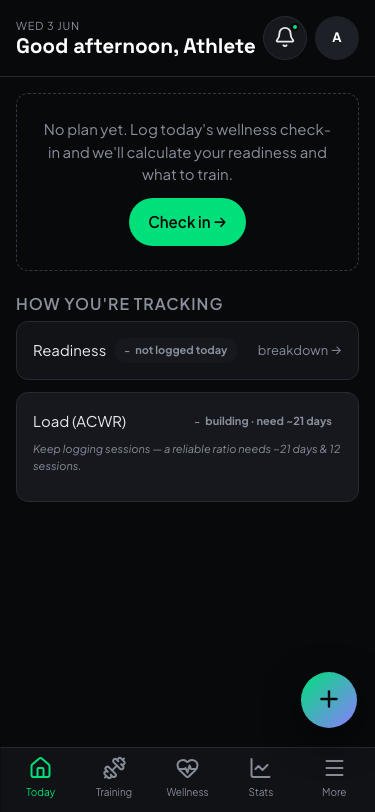
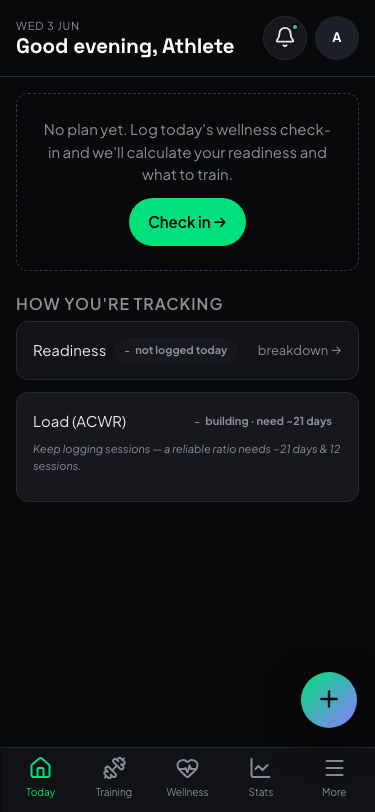
Write-path audit: fix silent optimistic-write failures (no rollback/feedback)
Adversarial write-path audit (every POST/PUT mutation). All 21 target tables verified
present in the live schema; both critical RPCs (set_event_availability,
upsert_wellness_checkin) exist; no handler routes-forward on error except onboarding
(already fixed). Found + fixed the 'appears to succeed but never persisted' class —
optimistic UI flips with no rollback and no error surfaced:

- Settings notification (×4) + privacy/consent (×3) toggles: flipped optimistically,
  save error only logged → UI showed a consent/notification state the server never
  accepted. Now reconcile from the server (snap the toggle back to truth) + show an
  inline error. P1 (consent integrity).
- Hydration (wellness + gameday): optimistic total, no rollback → showed water that
  wasn't recorded. Now rolls back on error. P2.
- Notifications mark-all: cleared the list optimistically, no restore → looked cleared
  while still unread server-side. Now restores the list on error. P2.

How each prevents recurrence: the optimistic state is now always reconciled to (or
reverted toward) the server result on failure, so the UI can't display an
un-persisted write.

ng build green, tsc 0 errors, smoke green.

Changed region(s): [[0.2053, 0.0308, 0.6747, 0.0924]]

diff --git a/angular/src/app/settings/settings.component.ts b/angular/src/app/settings/settings.component.ts
@@ -213,8 +213,17 @@ export class SettingsComponent {
   readonly acwrAlerts = signal(true);
   readonly coachMessages = signal(true);
 
+  // Toggle-save failures must not leave the UI showing a consent/notification state
+  // the server never accepted — reconcile from the server + tell the user.
+  readonly prefsMsg = signal<string | null>(null);
+  private reconcilePrefs(): void {
+    this.prefsMsg.set("Couldn't save — reverted to your saved setting.");
+    void this.loadPrefs(); // re-pull server truth so the toggle snaps back
+  }
+
   saveNotifications(): void {
     if (!this.prefsLoaded()) return; // never write before real state has loaded
+    this.prefsMsg.set(null);
     // Endpoint expects { preferences: { <type>: { muted, pushEnabled, inAppEnabled } } }
     // with backend notification types. A toggle ON = delivered, OFF = muted.
     const cfg = (on: boolean) => ({ muted: !on, pushEnabled: on, inAppEnabled: on });
@@ -227,7 +236,12 @@ export class SettingsComponent {
           team: cfg(this.coachMessages()),
         },
       })
-      .subscribe({ error: (e) => this.logger.error("notif_prefs_save_failed", e) });
+      .subscribe({
+        error: (e) => {
+          this.logger.error("notif_prefs_save_failed", e);
+          this.reconcilePrefs();
+        },
+      });
   }
 
   // privacy / consent
@@ -237,6 +251,7 @@ export class SettingsComponent {
 
   savePrivacy(): void {
     if (!this.prefsLoaded()) return; // never write fabricated consent before load
+    this.prefsMsg.set(null);
     // Endpoint expects the settings wrapped under a `settings` key.
     this.api
       .put("/api/privacy-settings", {
@@ -246,6 +261,11 @@ export class SettingsComponent {
           healthSharingDefault: this.shareHealth(),
         },
       })
-      .subscribe({ error: (e) => this.logger.error("privacy_save_failed", e) });
+      .subscribe({
+        error: (e) => {
+          this.logger.error("privacy_save_failed", e);
+          this.reconcilePrefs();
+        },
+      });
   }
 }

diff --git a/angular/src/app/wellness/wellness.component.ts b/angular/src/app/wellness/wellness.component.ts
@@ -135,7 +135,14 @@ export class WellnessComponent {
     this.hydrationMl.update((v) => v + ml);
     this.api
       .post("/api/hydration/log", { amount: ml })
-      .subscribe({ error: (err) => this.logger.error("hydration_log_failed", err) });
+      .subscribe({
+        // Roll the optimistic total back if the log didn't persist, so the UI
+        // never shows water that isn't actually recorded.
+        error: (err) => {
+          this.hydrationMl.update((v) => v - ml);
+          this.logger.error("hydration_log_failed", err);
+        },
+      });
   }
   readonly hydrationL = computed(() => (this.hydrationMl() / 1000).toFixed(1));
 }

diff --git a/angular/src/app/gameday/gameday.component.ts b/angular/src/app/gameday/gameday.component.ts
@@ -82,6 +82,12 @@ export class GamedayComponent {
     this.hydrationMl.update((v) => v + ml);
     this.api
       .post("/api/hydration/log", { amount: ml })
-      .subscribe({ error: (e) => this.logger.error("hydration_log_failed", e) });
+      .subscribe({
+        // Roll back the optimistic total if the log didn't persist.
+        error: (e) => {
+          this.hydrationMl.update((v) => v - ml);
+          this.logger.error("hydration_log_failed", e);
+        },
+      });
   }
 }

diff --git a/angular/src/app/notifications/notifications.component.ts b/angular/src/app/notifications/notifications.component.ts
@@ -52,9 +52,15 @@ export class NotificationsComponent {
   }
 
   markAllRead(): void {
+    const prev = this.items();
     this.items.set([]);
     this.api.post("/api/notifications", { notificationId: "all" }).subscribe({
-      error: (e) => this.logger.error("notifications_mark_read_failed", e),
+      // Restore the list if the server didn't clear it, so it doesn't look
+      // cleared while still unread (and reappear on the next reload).
+      error: (e) => {
+        this.items.set(prev);
+        this.logger.error("notifications_mark_read_failed", e);
+      },
     });
   }
 

diff --git a/angular/src/app/settings/settings.component.html b/angular/src/app/settings/settings.component.html
@@ -26,6 +26,8 @@
     }
   </nav>
 
+  @if (prefsMsg(); as m) { <p class="note" style="color:var(--danger)" role="alert">{{ m }}</p> }
+
   @switch (tab()) {
     @case ("Notifications") {
       <div class="section-h"><h2>Notifications</h2></div>